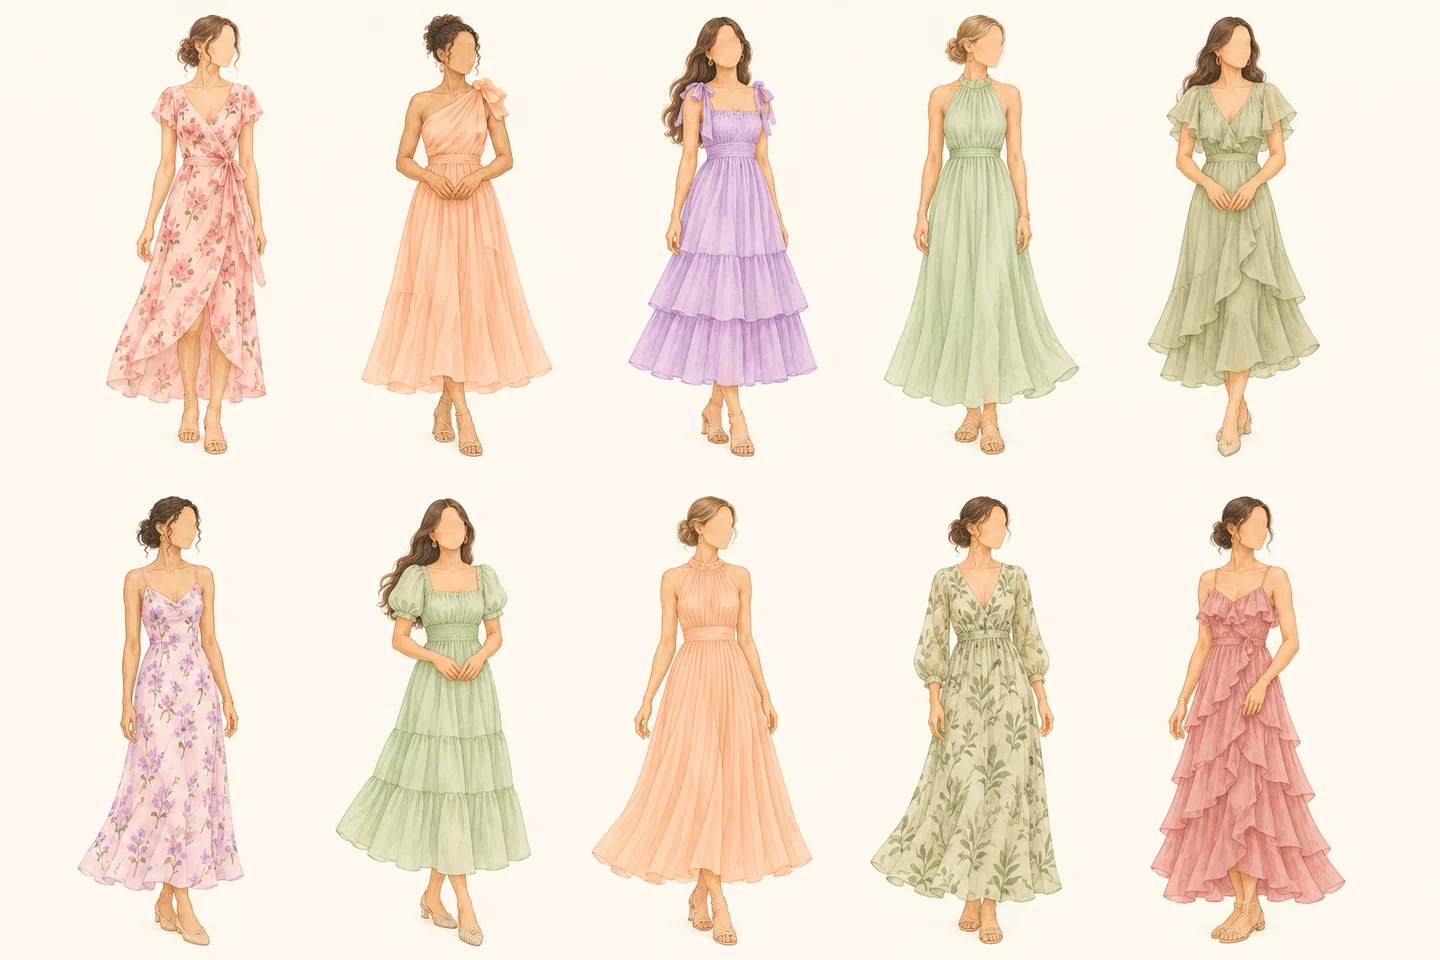
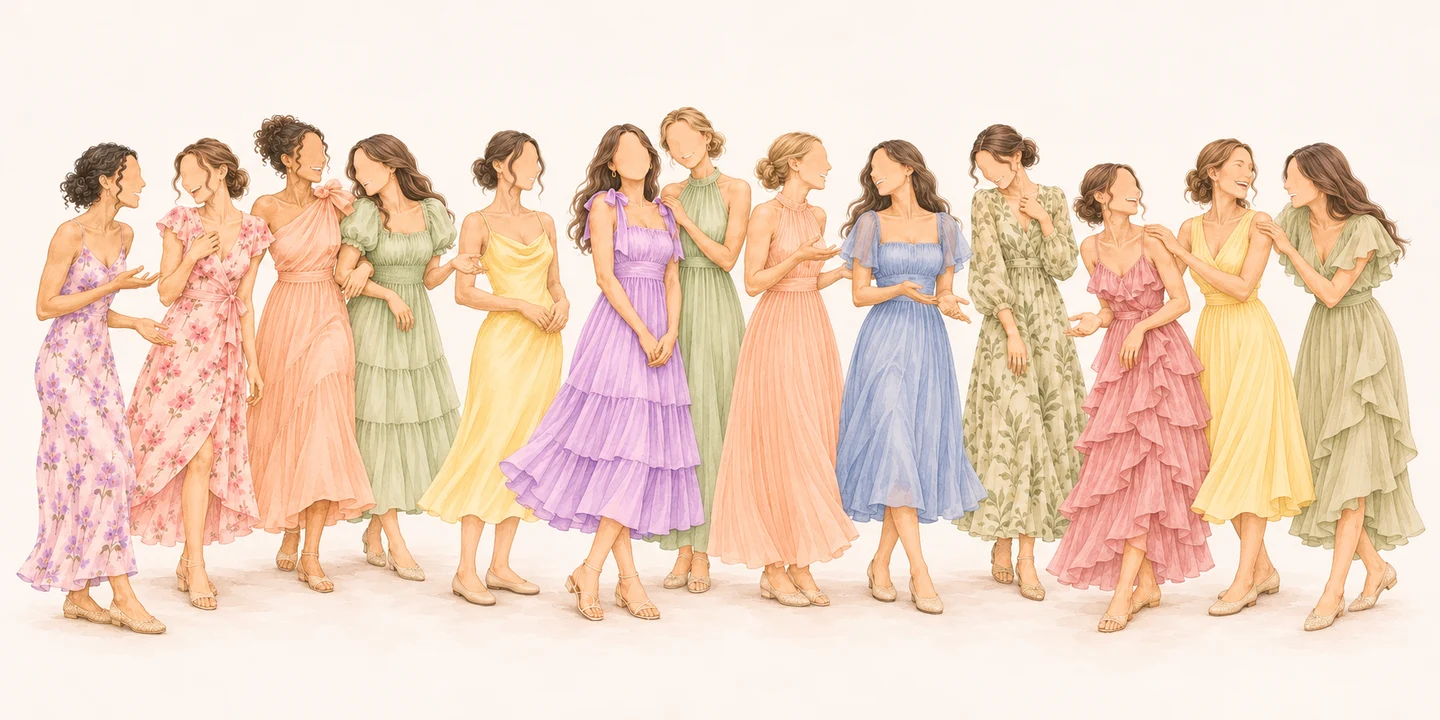
Show guests and entourage together in the attire guide

diff --git a/src/components/GuestPalette.tsx b/src/components/GuestPalette.tsx
@@ -1,21 +1,38 @@
 import { site } from "@/content";
 
-export function GuestPalette({ entourage = false }: { entourage?: boolean }) {
+const guestShadePairs = [
+  ["#FFD6D6", "#FF9EB7"],
+  ["#FFE3C6", "#FFCC99"],
+  ["#E6CCFF", "#D8C1FF"],
+  ["#BFE7C6", "#A9E3BF"],
+  ["#E4F7BF", "#CFF3A8"],
+];
+
+export function GuestPalette({
+  entourage = false,
+  showGuestShades = false,
+}: {
+  entourage?: boolean;
+  showGuestShades?: boolean;
+}) {
   const colors = entourage ? site.entouragePalette : site.guestPalette;
   const label = entourage ? "Entourage color palette" : "Guest color palette";
 
   return (
     <ul className={`mx-auto grid max-w-md gap-1 sm:gap-4 ${entourage ? "w-fit grid-cols-2" : "grid-cols-5"}`} aria-label={label}>
-      {colors.map(({ name, hex }) => (
-        <li key={name} className="flex min-w-0 flex-col items-center gap-2 text-center text-xs leading-tight text-dusk-700">
-          <span
-            aria-hidden="true"
-            className="block size-8 rounded-full shadow-inner ring-1 ring-dusk-900/10 sm:size-12"
-            style={{ background: hex }}
-          />
-          {name}
-        </li>
-      ))}
+      {colors.map(({ name, hex }, index) => {
+        const shades = showGuestShades && !entourage ? guestShadePairs[index] : undefined;
+        return (
+          <li key={name} className="flex min-w-0 flex-col items-center gap-2 text-center text-xs leading-tight text-dusk-700">
+            <span
+              aria-hidden="true"
+              className="block size-8 rounded-full shadow-inner ring-1 ring-dusk-900/10 sm:size-12"
+              style={{ background: shades ? `linear-gradient(115deg, ${shades[0]} 50%, ${shades[1]} 50%)` : hex }}
+            />
+            {name}
+          </li>
+        );
+      })}
     </ul>
   );
 }

diff --git a/src/components/DressCode.tsx b/src/components/DressCode.tsx
@@ -7,8 +7,8 @@ import { GuestPalette } from "./GuestPalette";
 import { attireToAvoid, detailHeadings, dressCodeTagline, outfitIdeas, site } from "@/content";
 
 const illustrations = {
-  Ladies: { image: ladiesLooks, alt: "Ten watercolor beach wedding looks with airy midi and maxi dresses in blush, peach, lilac, mint and sage, including floral prints" },
-  Men: { image: menLooks, alt: "Ten watercolor beach wedding looks with pastel button-downs, tailored chinos and loafers. Several men wear sunglasses." },
+  Ladies: { image: ladiesLooks, alt: "Guests in pastel and floral dresses chat with entourage friends in dusty blue and butter yellow" },
+  Men: { image: menLooks, alt: "Guests in pastel button-downs and chinos mingle with entourage friends in dusty blue and butter yellow vests. Several men wear sunglasses." },
 };
 
 export function DressCode() {
@@ -22,8 +22,15 @@ export function DressCode() {
         <p className="mx-auto mt-4 max-w-lg text-sm leading-relaxed text-dusk-700 sm:text-base">{site.dressCode}</p>
       </header>
 
-      <div className="mx-auto mt-8 max-w-md">
-        <GuestPalette />
+      <div className="mx-auto mt-8 grid max-w-2xl gap-6 text-center sm:grid-cols-[1fr_2fr]">
+        <div>
+          <h2 className="mb-3 font-serif text-2xl italic text-dusk-700">Entourage</h2>
+          <GuestPalette entourage />
+        </div>
+        <div>
+          <h2 className="mb-3 font-serif text-2xl italic text-dusk-700">Guests</h2>
+          <GuestPalette showGuestShades />
+        </div>
       </div>
 
       <div className="mt-10 grid items-start gap-8 lg:grid-cols-[minmax(0,1fr)_13rem]">

diff --git a/src/content.ts b/src/content.ts
@@ -45,7 +45,7 @@ export const site = {
   ],
 };
 
-export const attireToAvoid = ["White", "Jeans", "Shorts", "Polo shirts", "Slippers"];
+export const attireToAvoid = ["White", "Black", "Jeans", "Shorts", "Polo shirts", "Slippers"];
 
 export const faqs: { q: string; a: string }[] = [
   {
@@ -180,6 +180,6 @@ export const outfitIdeas = [
   },
   {
     title: "Men",
-    description: "Wear a lightweight button-down with tailored chinos and loafers. Linen and breathable cotton are good choices.",
+    description: "Wear a lightweight button-down with tailored chinos and loafers. Linen and breathable cotton are good choices. Entourage men wear a vest in dusty blue or pastel yellow.",
   },
 ] as const;
